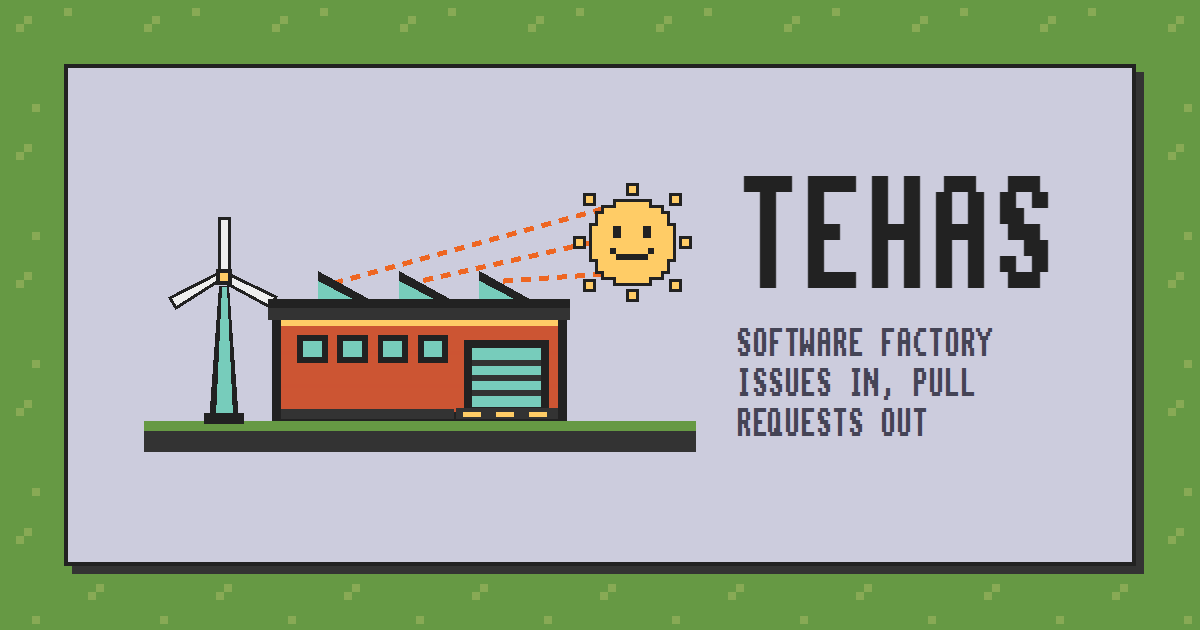
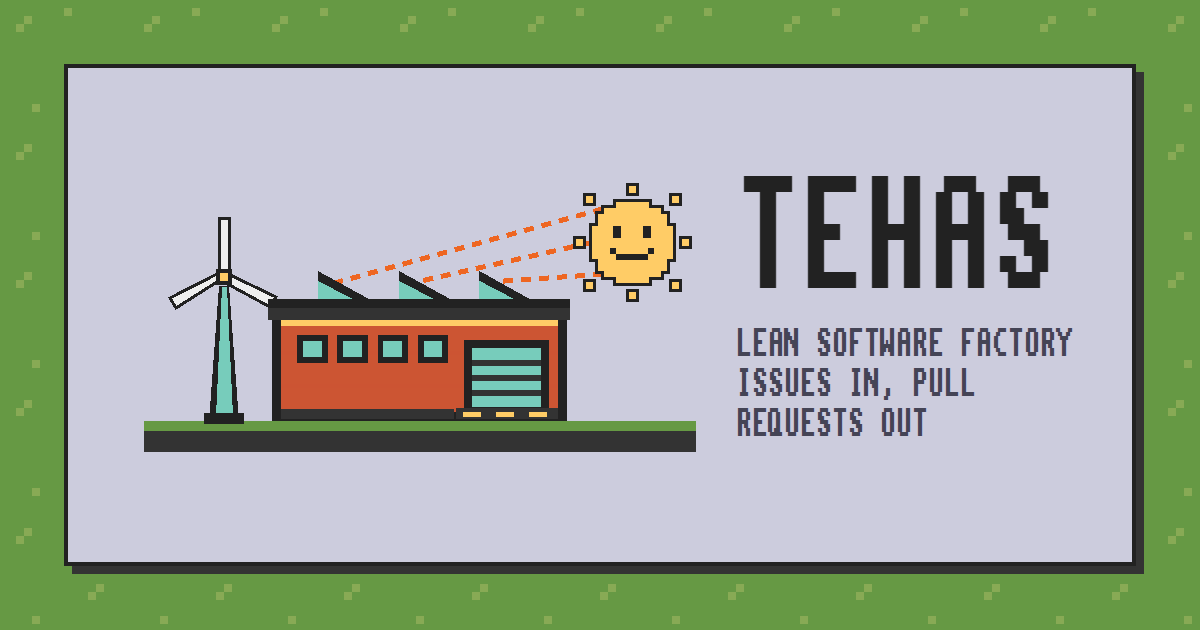
Tehas is the Lean Software Factory (#2523)
* Tehas is the Lean Software Factory

The front pages, the manual and llms.txt lead with the Lean Software
Factory, and a new manual page says what makes tehas lean. The Pi
software factory page stays, one step down. The page ceilings rise by
the new bytes, on the owner's word.

* The share images say Lean Software Factory

* The is part of the name: The Lean Software Factory

Changed region(s): [[0.6167, 0.5127, 0.8942, 0.573]]

diff --git a/host/fun/index.html b/host/fun/index.html
@@ -15,13 +15,13 @@
   <meta name="robots" content="noindex, nofollow">
   {{- end }}
   <link rel="alternate" type="text/plain" href="/llms.txt" title="For agents: llms.txt">
-  <title>Tehas: an open source software factory powered by the Pi coding agent</title>
-  <meta name="description" content="Tehas is a software factory powered by the Pi coding agent and pi-rukas. GitHub issues go in, reviewed pull requests come out, built in a sandbox on self-hosted models. This is its factory floor, live.">
+  <title>Tehas - The Lean Software Factory: open source, powered by Pi</title>
+  <meta name="description" content="Tehas is The Lean Software Factory, open source and powered by the Pi coding agent and pi-rukas. GitHub issues go in, reviewed pull requests come out, built in a sandbox on self-hosted models. This is its factory floor, live.">
   <link rel="canonical" href="{{ $base }}{{ $here }}">
   <meta property="og:type" content="website">
   <meta property="og:site_name" content="Tehas">
-  <meta property="og:title" content="Tehas: an open source software factory powered by the Pi coding agent">
-  <meta property="og:description" content="Tehas is a software factory powered by the Pi coding agent and pi-rukas. GitHub issues go in, reviewed pull requests come out, built in a sandbox on self-hosted models. This is its factory floor, live.">
+  <meta property="og:title" content="Tehas - The Lean Software Factory: open source, powered by Pi">
+  <meta property="og:description" content="Tehas is The Lean Software Factory, open source and powered by the Pi coding agent and pi-rukas. GitHub issues go in, reviewed pull requests come out, built in a sandbox on self-hosted models. This is its factory floor, live.">
   <meta property="og:url" content="{{ $base }}{{ $here }}">
   {{- if eq $design "pixel" }}
   <meta property="og:image" content="{{ $base }}/fun/share.png">
@@ -42,18 +42,19 @@
     "@context": "https://schema.org",
     "@type": "SoftwareApplication",
     "name": "Tehas",
-    "alternateName": "Tehas, an open source Pi software factory",
+    "alternateName": ["Tehas - The Lean Software Factory", "Tehas, an open source Pi software factory"],
+    "slogan": "The Lean Software Factory",
     "url": "{{ $base }}/",
-    "description": "A software factory powered by the Pi coding agent and pi-rukas. A GitHub issue goes in and a reviewed pull request comes out, built in a sandbox on self-hosted models. A person merges.",
+    "description": "The Lean Software Factory, powered by the Pi coding agent and pi-rukas. A GitHub issue goes in and a reviewed pull request comes out, built in a sandbox on self-hosted models. A person merges.",
     "applicationCategory": "DeveloperApplication",
     "operatingSystem": "Linux",
     "softwareRequirements": "Pi coding agent, pi-rukas, Docker, an OpenAI-compatible model endpoint",
-    "softwareHelp": "{{ $base }}/pi-software-factory",
+    "softwareHelp": "{{ $base }}/lean-software-factory",
     "sameAs": "https://github.com/tehas-app/tehas",
     "license": "https://www.apache.org/licenses/LICENSE-2.0",
     "author": {"@type": "Organization", "name": "tehas-app", "url": "https://github.com/tehas-app"},
     "isBasedOn": {"@type": "SoftwareSourceCode", "codeRepository": "https://github.com/tehas-app/tehas", "license": "https://www.apache.org/licenses/LICENSE-2.0"},
-    "keywords": "Pi software factory, Pi coding agent, pi-rukas, software factory, coding agents, self-hosted models, GitHub issues"
+    "keywords": "Lean Software Factory, lean software factory, Pi software factory, Pi coding agent, pi-rukas, software factory, coding agents, self-hosted models, GitHub issues"
   }
   </script>
   <link rel="icon" type="image/svg+xml" href="/fun/favicon.svg">
@@ -103,8 +104,8 @@
   <main class="stage">
     <section class="floor" aria-labelledby="floor-title">
       <div class="floor-head">
-        <h1 id="floor-title">TEHAS: AN OPEN SOURCE PI SOFTWARE FACTORY</h1>
-        <p class="floor-intro">The floor of a software factory powered by the <a href="https://pi.dev" target="_blank" rel="noopener noreferrer">Pi coding agent</a> and <a href="https://github.com/trail-openers/pi-rukas" target="_blank" rel="noopener noreferrer">pi-rukas</a>. GitHub issues go in and reviewed pull requests come out, built in a sandbox on self-hosted models. A person merges. <a href="/pi-software-factory">HOW IT WORKS</a> <a href="/operating#1-write-an-issue-tehas-can-build">HOW TO WRITE AN ISSUE</a></p>
+        <h1 id="floor-title">TEHAS: THE LEAN SOFTWARE FACTORY</h1>
+        <p class="floor-intro">The floor of an open source lean software factory powered by the <a href="https://pi.dev" target="_blank" rel="noopener noreferrer">Pi coding agent</a> and <a href="https://github.com/trail-openers/pi-rukas" target="_blank" rel="noopener noreferrer">pi-rukas</a>. GitHub issues go in and reviewed pull requests come out, built in a sandbox on self-hosted models. A person merges. <a href="/lean-software-factory">HOW IT WORKS</a> <a href="/operating#1-write-an-issue-tehas-can-build">HOW TO WRITE AN ISSUE</a></p>
         <p id="floor-summary">Waiting for ticket data.</p>
         <a class="floor-meter" id="floor-meter" href="#energy" aria-label="Live meter. Opens Energy use." hidden>
           <span class="meter-row"><b>POWER</b><span><i id="meter-watts">--</i> W</span></span>

diff --git a/host/fun/business.html b/host/fun/business.html
@@ -15,13 +15,13 @@
   <meta name="robots" content="noindex, nofollow">
   {{- end }}
   <link rel="alternate" type="text/plain" href="/llms.txt" title="For agents: llms.txt">
-  <title>Tehas: factory dashboard</title>
-  <meta name="description" content="Tehas is a software factory powered by the Pi coding agent and pi-rukas. GitHub issues go in, reviewed pull requests come out, built in a sandbox on self-hosted models. This is its dashboard, live.">
+  <title>Tehas - The Lean Software Factory: dashboard</title>
+  <meta name="description" content="Tehas is The Lean Software Factory, open source and powered by the Pi coding agent and pi-rukas. GitHub issues go in, reviewed pull requests come out, built in a sandbox on self-hosted models. This is its dashboard, live.">
   <link rel="canonical" href="{{ $base }}{{ $here }}">
   <meta property="og:type" content="website">
   <meta property="og:site_name" content="Tehas">
-  <meta property="og:title" content="Tehas: factory dashboard">
-  <meta property="og:description" content="Tehas is a software factory powered by the Pi coding agent and pi-rukas. GitHub issues go in, reviewed pull requests come out, built in a sandbox on self-hosted models. This is its dashboard, live.">
+  <meta property="og:title" content="Tehas - The Lean Software Factory: dashboard">
+  <meta property="og:description" content="Tehas is The Lean Software Factory, open source and powered by the Pi coding agent and pi-rukas. GitHub issues go in, reviewed pull requests come out, built in a sandbox on self-hosted models. This is its dashboard, live.">
   <meta property="og:url" content="{{ $base }}{{ $here }}">
   {{- if eq $design "pixel" }}
   <meta property="og:image" content="{{ $base }}/fun/share.png">
@@ -42,18 +42,19 @@
     "@context": "https://schema.org",
     "@type": "SoftwareApplication",
     "name": "Tehas",
-    "alternateName": "Tehas, an open source Pi software factory",
+    "alternateName": ["Tehas - The Lean Software Factory", "Tehas, an open source Pi software factory"],
+    "slogan": "The Lean Software Factory",
     "url": "{{ $base }}/",
-    "description": "A software factory powered by the Pi coding agent and pi-rukas. A GitHub issue goes in and a reviewed pull request comes out, built in a sandbox on self-hosted models. A person merges.",
+    "description": "The Lean Software Factory, powered by the Pi coding agent and pi-rukas. A GitHub issue goes in and a reviewed pull request comes out, built in a sandbox on self-hosted models. A person merges.",
     "applicationCategory": "DeveloperApplication",
     "operatingSystem": "Linux",
     "softwareRequirements": "Pi coding agent, pi-rukas, Docker, an OpenAI-compatible model endpoint",
-    "softwareHelp": "{{ $base }}/pi-software-factory",
+    "softwareHelp": "{{ $base }}/lean-software-factory",
     "sameAs": "https://github.com/tehas-app/tehas",
     "license": "https://www.apache.org/licenses/LICENSE-2.0",
     "author": {"@type": "Organization", "name": "tehas-app", "url": "https://github.com/tehas-app"},
     "isBasedOn": {"@type": "SoftwareSourceCode", "codeRepository": "https://github.com/tehas-app/tehas", "license": "https://www.apache.org/licenses/LICENSE-2.0"},
-    "keywords": "Pi software factory, Pi coding agent, pi-rukas, software factory, coding agents, self-hosted models, GitHub issues"
+    "keywords": "Lean Software Factory, lean software factory, Pi software factory, Pi coding agent, pi-rukas, software factory, coding agents, self-hosted models, GitHub issues"
   }
   </script>
   <link rel="icon" type="image/svg+xml" href="/fun/favicon.svg">
@@ -200,7 +201,7 @@
     </section>
 
     <footer class="foot">
-      <p>Tehas, a software factory. Powered by Pi and pi-rukas.</p>
+      <p>Tehas, The Lean Software Factory. Powered by Pi and pi-rukas.</p>
       <p><a href="/overview">Manual</a> · <a href="/agents">Agents</a> · <a href="/llms.txt">llms.txt</a></p>
       <p id="versions" hidden></p>
     </footer>

diff --git a/host/docs/_layout.html b/host/docs/_layout.html
@@ -22,7 +22,7 @@
 {{- else -}}
 {{- $doc := splitFrontMatter (readFile $file) -}}
 {{- $title = $doc.Meta.title -}}
-{{- $description = default "The operating manual of tehas, a software factory powered by the Pi coding agent: GitHub issues in, reviewed pull requests out." $doc.Meta.description -}}
+{{- $description = default "The operating manual of Tehas, The Lean Software Factory, powered by the Pi coding agent: GitHub issues in, reviewed pull requests out." $doc.Meta.description -}}
 {{- $body = markdown $doc.Body | replace "<table>" "<div class=\"tablewrap\"><table>" | replace "</table>" "</table></div>" -}}
 {{- with $doc.Meta.faq -}}
 {{- $heading := printf "\n## %s\n" . -}}
@@ -129,6 +129,8 @@
           {{ end }}>PLAIN DASHBOARD</a>
         <a href="/overview" {{ if eq $path "overview" }} aria-current="page"
           {{ end }}>OVERVIEW</a>
+        <a href="/lean-software-factory" {{ if eq $path "lean-software-factory" }} aria-current="page"
+          {{ end }}>LEAN SOFTWARE FACTORY</a>
         <a href="/pi-software-factory" {{ if eq $path "pi-software-factory" }} aria-current="page"
           {{ end }}>PI SOFTWARE FACTORY</a>
         <a href="/features" {{ if eq $path "features" }} aria-current="page"

diff --git a/host/docs/lean-software-factory.md b/host/docs/lean-software-factory.md
@@ -1,0 +1,91 @@
+---
+title: The Lean Software Factory
+faq: Questions
+description: "Tehas is The Lean Software Factory: work is pulled from GitHub issues, one issue makes one reviewed pull request, the line stops on a defect, and it all runs on one host with self-hosted models."
+---
+
+# Tehas, The Lean Software Factory
+
+Tehas is The Lean Software Factory. A GitHub issue goes in and a reviewed pull
+request comes out, built by coding agents in a sandbox on self-hosted models. A
+person decides two things: what to build and what to merge. The factory does
+the rest, and it does it the way a lean factory runs a line.
+
+The [factory floor](/floor) on this host is one such factory at work.
+
+## What makes it lean
+
+Lean manufacturing makes only what is asked for, one piece at a time, stops the
+line when something is wrong, and keeps the work in sight. Tehas does the same
+with code.
+
+| Lean idea                | What it is in tehas                                                                                                                                                             |
+| ------------------------ | ------------------------------------------------------------------------------------------------------------------------------------------------------------------------------- |
+| Pull, not push           | Nothing runs until a person on the allow list labels an issue `tehas:ready`. The dispatcher pulls labelled issues from the queue as slots come free.                            |
+| Limit work in progress   | At most `TEHAS_MAX_CYCLES` cycles run at once, the host's CPUs minus one by default, and fewer while the host has no room.                                                       |
+| One-piece flow           | One issue is one outcome and one pull request. A cycle explores, plans, develops, checks and reviews that one piece before it hands it on.                                     |
+| Build quality in         | The repository's own gates decide when a change is done. A second agent attacks the patch before it is committed, and the pull request is reviewed in six passes.               |
+| Stop the line            | A cycle that cannot finish stops, labels the issue `needs-human-attention` and says where it stopped. A cycle that touches `.pi/`, `.github/` or `CODEOWNERS` halts.            |
+| The andon cord           | A pause label on the control issue holds the whole queue: nothing new starts until it comes off.                                                                                |
+| Go and see               | The [factory floor](/floor) and the [plain dashboard](/dashboard) show the queue and the console of every running cycle, live.                                                  |
+| Improve the line         | Every run is recorded. [Analytics](/analytics) and the [MCP server](/mcp-server) say where runs failed, per version, so the next release can fix the cause.                    |
+| No waste in the plant    | One host, one product repository, no GPU on the factory host. Inference runs on a model endpoint you already own. Tehas is shell scripts, Rust programs and a few containers. |
+
+## What tehas leaves out
+
+Lean is also what a factory does not do. Tehas never merges, deploys or
+touches production. It has no control plane of its own: GitHub issues and
+labels are the queue, the state and the record. One instance serves one
+repository, so its settings are two small files.
+
+## Built on Pi
+
+The agent on the line is the [Pi coding agent](https://pi.dev), with the
+[pi-rukas](https://github.com/trail-openers/pi-rukas) extension running the
+work cycle. That also makes tehas a Pi software factory.
+[Pi software factory](/pi-software-factory) says who does what, and what tehas
+adds to running Pi by hand. Tehas is its own project and is not part of Pi.
+
+## Questions
+
+### What is a lean software factory?
+
+A system that turns requests for change into finished, reviewed changes the way
+a lean plant turns orders into goods: work is pulled when it is asked for, it
+flows one piece at a time, quality is checked at every step, and the line stops
+on a defect instead of passing it on. Tehas is one, with coding agents doing the
+work and people deciding what to build and what to merge.
+
+### How is it different from running a coding agent by hand?
+
+Nobody sits in the session. Issues wait in GitHub and are picked up as slots
+come free, the agent runs in a sandbox with limits and one narrow token, and the
+repository's gates decide when it is done. [Pi software
+factory](/pi-software-factory) has the full comparison.
+
+### Does it need a large setup?
+
+No. One Linux host runs the factory and needs no GPU. The models run on an
+OpenAI-compatible endpoint you name, on your own hardware.
+[A new project](/new-project) is the install guide.
+
+### Does it merge or deploy anything?
+
+No. Every pull request waits for a person to review and merge it.
+
+### Is this the lean driver?
+
+No. The lean driver, `tehas:lean`, is one way to run a single cycle and is
+still being built; see [Choosing the driver](/operating#choosing-the-driver).
+The whole factory is lean whichever driver runs a cycle.
+
+### How much of it is proven?
+
+[Features](/features) lists every part with how far it has been checked. Read
+it before relying on anything here.
+
+## Set one up
+
+- [A new project](/new-project): installing tehas for another repository.
+- [Overview](/overview): how an issue flows through the factory.
+- Source: [github.com/tehas-app/tehas](https://github.com/tehas-app/tehas).

diff --git a/host/docs/overview.md b/host/docs/overview.md
@@ -1,12 +1,12 @@
 ---
 title: Overview
-description: "Tehas is a software factory powered by the Pi coding agent. How a GitHub issue flows through it to a reviewed pull request."
+description: "Tehas is The Lean Software Factory, powered by the Pi coding agent. How a GitHub issue flows through it to a reviewed pull request."
 ---
 
 # Tehas
 
-Tehas is a software factory powered by the [Pi coding agent](https://pi.dev)
-and [pi-rukas](https://github.com/trail-openers/pi-rukas). It turns a GitHub
+Tehas is [The Lean Software Factory](/lean-software-factory), powered by the
+[Pi coding agent](https://pi.dev) and [pi-rukas](https://github.com/trail-openers/pi-rukas). It turns a GitHub
 issue into a reviewed pull request without a person driving an agent session. GitHub issues are the only control plane: you label an issue,
 tehas works on it, and the result comes back as a pull request and comments on
 that issue. A human merges. Tehas never deploys and never touches production.
@@ -91,6 +91,7 @@ the factory works the same without it.
   `TEHAS_DESIGN=pixel`; the business page is the front page otherwise.
 - [Plain dashboard](/dashboard): what is in line, being worked on (with its live console),
   waiting for you and done.
+- [The Lean Software Factory](/lean-software-factory): what makes tehas lean.
 - [Pi software factory](/pi-software-factory): what tehas is made of, and
   what it adds to running Pi by hand.
 - [Features](/features): everything it does, and how far each part is proven.

diff --git a/host/docs/pi-software-factory.md b/host/docs/pi-software-factory.md
@@ -6,7 +6,8 @@ description: "Tehas is a software factory powered by the Pi coding agent and pi-
 
 # A software factory powered by the Pi coding agent
 
-Tehas is a Pi software factory. It takes a GitHub issue, runs the
+Tehas, [The Lean Software Factory](/lean-software-factory), is a Pi software
+factory. It takes a GitHub issue, runs the
 [Pi coding agent](https://pi.dev) on it inside a sandbox, and hands back a
 reviewed pull request. Nobody sits in the agent session. A person writes the
 issue, applies one label, and later reviews and merges.

diff --git a/README.md b/README.md
@@ -7,9 +7,10 @@ __ __/\ _/       \_   \____/__   _     \__   _/     \\______   \_ /\___ ___ _
  
 ```
 
-# Tehas Factory
+# Tehas - The Lean Software Factory
 
-Tehas is a software factory powered by the [Pi coding agent](https://pi.dev).
+Tehas is [The Lean Software Factory](host/docs/lean-software-factory.md),
+powered by the [Pi coding agent](https://pi.dev).
 You write a GitHub issue and label it. Agents on your own model server work on
 it in a sandbox, and a pull request comes back for you to review and merge.
 

diff --git a/changelog.d/brand-lean-software-factory.md b/changelog.d/brand-lean-software-factory.md
@@ -1,0 +1,3 @@
+### Changes
+
+- The front pages, the manual, `llms.txt` and both share images name tehas "The Lean Software Factory". A new manual page, `/lean-software-factory`, says what makes it lean and links the Pi software factory page, which stays.
